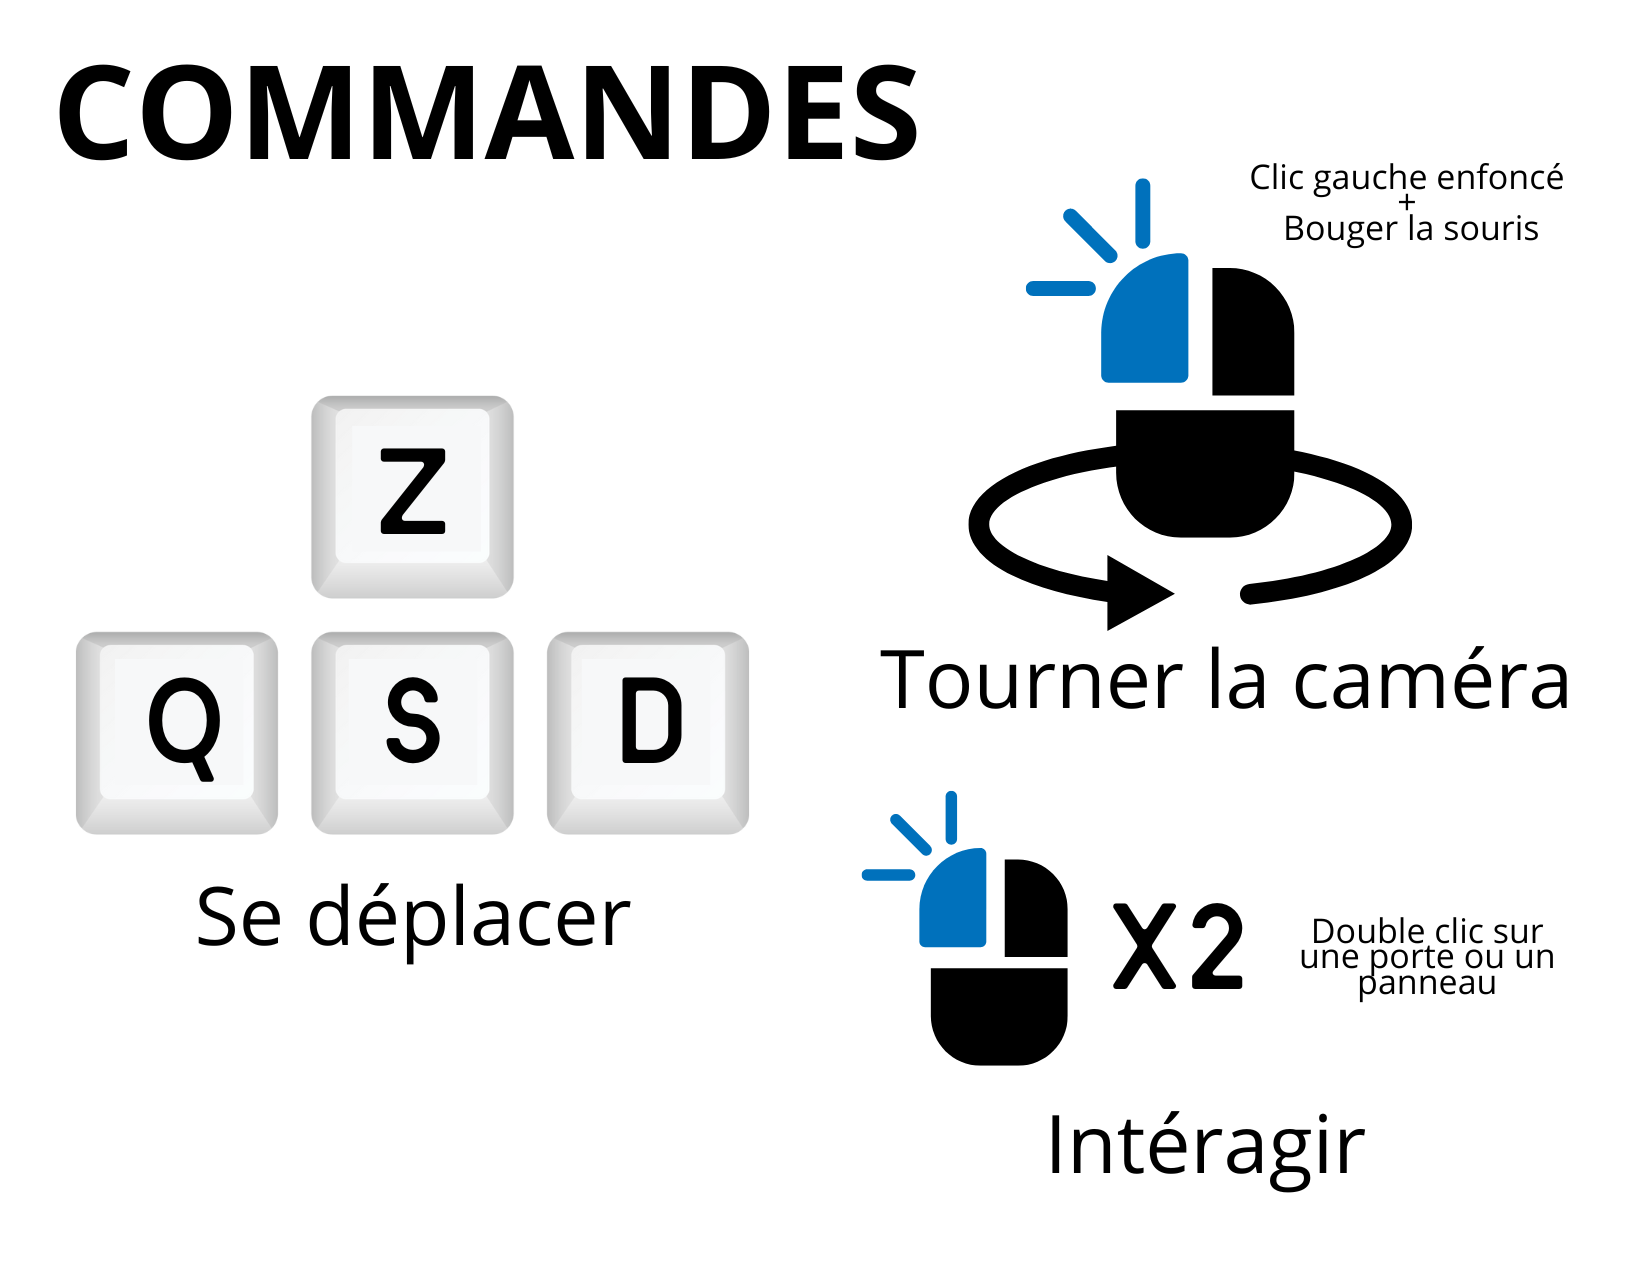
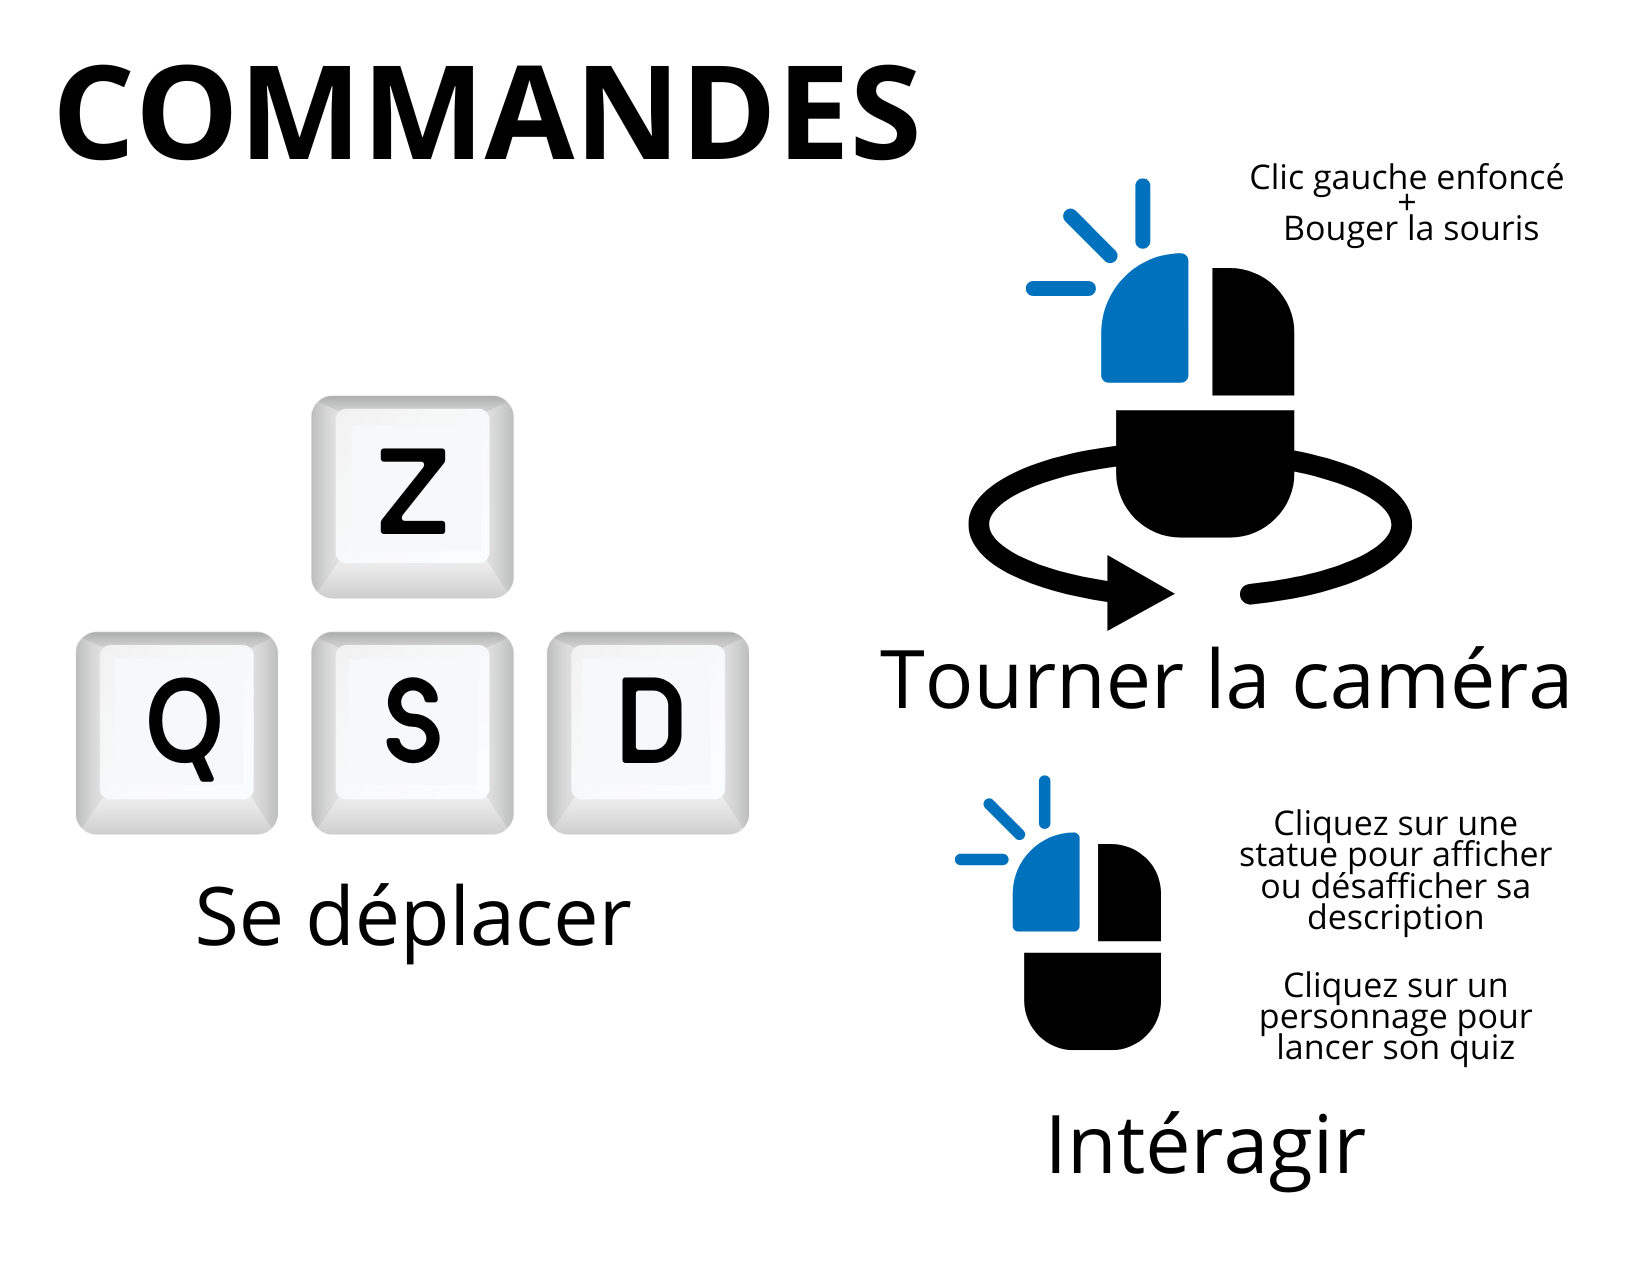
V2.2

Changed region(s): [[0.5255, 0.6118, 0.9582, 0.8565]]

diff --git a/musee.html b/musee.html
@@ -110,12 +110,12 @@
     <script>
 
         const desc = new Map();
-        desc.set("argos", "<h1>MERCURY ABOUT TO KILL ARGOS</h1><hr><h3>Bertel Thorvaldsen - 11818</h3><p>Réalisé par Bertel Thorvaldsen, sculpteur Danois en 1818. Cette sculpture représente une scène de la mythologie. Jupiter a eu une liaison avec l'une des prêtresses de sa femme Junon, mais Junon l'a découvert et a puni la prêtresse en la transformant en génisse, qu'elle a laissée garder par un monstre appelé Argus. Jupiter demanda donc à son fils Mercure, le messager volant des dieux reconnaissable à son chapeau ailé, de l'aider à libérer la prêtresse.</p>");
+        desc.set("argos", "<h1>MERCURY ABOUT TO KILL ARGOS</h1><hr><h3>Bertel Thorvaldsen - 1818</h3><p>Réalisé par Bertel Thorvaldsen, sculpteur Danois en 1818. Cette sculpture représente une scène de la mythologie. Jupiter a eu une liaison avec l'une des prêtresses de sa femme Junon, mais Junon l'a découvert et a puni la prêtresse en la transformant en génisse, qu'elle a laissée garder par un monstre appelé Argus. Jupiter demanda donc à son fils Mercure, le messager volant des dieux reconnaissable à son chapeau ailé, de l'aider à libérer la prêtresse.</p>");
         desc.set("diomedes", "<h1>HERCULE ET DIOMEDE</h1><hr><h3>Vincenzo de Rossi - 1570</h3><p>Réalisé en 1570 Vincenzo de' Rossi, sculpteur italien, est l'un des six groupes monumentaux représentant les 12 travaux d'Hercule. Dans la mythologie grecque, Hercule, symbole de force et de courage, entreprend ces travaux pour expier le meurtre de ses enfants dans un accès de folie. Le huitième travail, appelé \"Les juments de Diomède\", est illustré ici. Eurysthée, roi de Mycènes, ordonne à Hercule de capturer les juments de Diomède, des créatures féroces nourries des naufragés par le cruel Diomède, fils du dieu Arès, qui règne en tyran sur les Bistoni en Thrace. Hercule, sans difficulté apparente, capture Diomède et le donne en pâture à ses propres chevaux.</p>");
         desc.set("hercules", "<h1>Hercule et Calliope</h1><hr><h3>Inconnu - Date inconnue</h3><p>C'est une statue baroque d'Hercule et Calliope dans le jardin du palais du Belvédère. Dans la mythologie grecque et romaine, Hercule est un héros qui reçut les honneurs divins et fut accepté dans l'Olympe. Il était le fils de Zeus et d'Alkmène. Calliope est l'une des neuf filles de Zeus et de Mnémosyne. Elle est la muse de la poésie, de la science et de la philosophie. Elle est la plus ancienne et la plus sage des neuf muses classiques et fut donc la juge dans le différend entre Aphrodite et Perséphone au sujet d'Adonis</p>");
         desc.set("herakles", "<h1>HERACLES ARCHER</h1><hr><h3>Antoine Bourdelle - 1909</h3><p>Réalisée en 1909 par Antoine Bourdelle, \"Héraclès archer\" aussi appelé \"Héraclès tue les oiseaux du lac Stymphale\" est l'une de ses sculptures les plus célèbres. Il est un sculpteur français, né le 30 octobre 1861 et mort le 1er octobre 1929. Cette statue a pris comme inspiration l'un des douze travaux d'Héraclès, celui où il doit abattre les oiseaux du lac Stymphale. Cette oeuvre a été commandé par le mécène, amateur d'art et collectionneur Gabriel Thomas(un des promoteurs du musée Grévin). Cette statue a été présentée au salon de la Société nationale des beaux-arts de 1910.</p>");
         desc.set("horse", "<h1>CHEVAL A LA HERSE</h1><hr><h3>Pierre Louis Rouillard - 1878</h3><p>Réalisé par Pierre Louis Rouillard, née le 16 janvier 1820 et mort en 2 juin 1881. C'est un sculpteur qui a comme spécialité la représentation d'animaux. Avec Henri Alfred Jacquemart, Pierre Jules Mène ou Antoine-Louis Barye il fait parti des sculpteur qui ont, dans la deuxième moitié du XIXe siècle , profité de l'engouement nouveau de la bourgeoisie pour les sculptures d'ameublement, particulièrement les sculptures d'animaux. Ici, l'œuvre représente un cheval et a été commandée pour l'Exposition universelle de 1878. Elle faisait partie d'un ensemble de quatre statues monumentales en fonte de fer et dorées à l'origine (avec Éléphant pris au piège et Rhinocéros d' Henri-Alfred Jacquemart ) qui entouraient la fontaine devant le palais du Trocadéro à Paris.</p>");
-        desc.set("lion", "<h1>LE LION</h1><hr><h3>Antoine-Louis Barye - 16832</h3><p>Réalisé par Antoine-Louis Barye, sculpteur francais en 1832, il est représentatif du romantisme , et est l'un des sculpteurs animaliers les plus réputés du xixe siècle. Il espérait que le gouvernement en place pourrait être libéral et à l’écoute de ses citoyens. Il utilisait le bronze plutôt que du marbre et des animaux comme symboles des émotions humaines. Ici, le lion est le symbole de la politique qui écrase le serpent maléfique. Cette oeuvre lui a permis de devenir chevalier de la Légion d’honneur en 1833.</p>");
+        desc.set("lion", "<h1>LE LION</h1><hr><h3>Antoine-Louis Barye - 1832</h3><p>Réalisé par Antoine-Louis Barye, sculpteur francais en 1832, il est représentatif du romantisme , et est l'un des sculpteurs animaliers les plus réputés du xixe siècle. Il espérait que le gouvernement en place pourrait être libéral et à l’écoute de ses citoyens. Il utilisait le bronze plutôt que du marbre et des animaux comme symboles des émotions humaines. Ici, le lion est le symbole de la politique qui écrase le serpent maléfique. Cette oeuvre lui a permis de devenir chevalier de la Légion d’honneur en 1833.</p>");
         desc.set("orsay", "<h1>MERCURE INVENTANT LA CADUCEE</h1><hr><h3>Jean Antoine Idrac - 1878</h3><p> Réalisé par Jean Antoine Idrac en 1878, né à Toulouse le 14 avril 1849 et mort à Paris le 27 décembre 1884, est un sculpteur français. Dans son oeuvre il représente Mercure, le dieu du commerce, des voleurs, des voyages et messager des autres dieux dans la mythologie romaine, assimilé à l'Hermès grec. Le caducée est un des attributs du dieu Mercure (Hermès) dans la mythologie grecque, représenté comme une baguette de laurier ou d'olivier surmonté de deux ailes et entouré de deux serpents entrelacés. Le caducée sert à guérir les morsures de serpents et c'est pourquoi il en est orné.</p>");
         desc.set("pegase", "<h1>MERCURE A CHEVAL SUR PEGASE</h1><hr><h3>Antoine Coysevix - 1698-1702</h3><p>Réalisé par Antoine COYSEVOX sculpteur francais entre 1698 1702. Cette sculpture représente La Renommée et Mercure chevauchant Pégase pour symboliser la Renommée du Roi dans ses aspects pacifiques et guerriers. Mercure guide le cheval de la poésie et foule aux pieds les trophées de la guerre, symbolisant l'abondance et la paix. La Renommée, couronnée de lauriers, annonce les victoires du roi en soufflant dans la trompette de la Vérité, entourée de trophées et d'une cuirasse ornée de la dépouille de lion.</p>");
         desc.set("rhino", "<h1>RHINOCEROS</h1><hr><h3>Henri Alfred Jacquemart - 1878</h3><p>Réalisé par Henri Alfred Jacquemart né le 24 février 1824 et mort le 4 janvier 1896, c'était un sculpteur qui a comme spécialité la représentation d\'animaux. Avec Pierre Louis Rouillard, Pierre Jules Mène ou Antoine-Louis Barye il fait parti des sculpteur qui ont, dans la deuxième moitié du XIXe siècle , profité de l\'engouement nouveau de la bourgeoisie pour les sculptures d\'ameublement, particulièrement les sculptures d'animaux. Cette sculpture, rhinocéros a été commandée pour l\' Exposition universelle de 1878. Elle faisait partie d'un ensemble de quatre statues monumentales en fonte de fer et dorées avec notamment Cheval à la herse de Pierre Louis Rouillard, sculpture d\' Henri-Alfred Jacquemart qui entouraient la fontaine devant le palais du Trocadéro à Paris.</p>");

diff --git a/index.html b/index.html
@@ -31,7 +31,7 @@
                 <!-- Ajout de l'image -->
                 <img src="images/commandes.png" class="img-fluid mx-auto d-block" alt="Commandes du jeu">
                 <!-- Paragraphe d'introduction -->
-                <p class="text-center">Bienvenue dans notre musée virtuel ! Vous êtes sur le point de découvrir des œuvres d'art fascinantes. Chaque statue que vous rencontrerez sera une occasion de tester vos connaissances avec notre quizz. Entrez votre prénom et commencez votre exploration.</p>
+                <p class="text-center">Bienvenue dans notre musée virtuel ! Vous êtes sur le point de découvrir des œuvres d'art fascinantes. Lisez bien la description de chaque statue puis testez vos connaissances avez un quiz en parlant aux personnages présents sur la carte. Essayez d'obtenir le meilleur score aux trois quiz ! Entrez votre prénom et commencez votre exploration.</p>
                 <form>
                     <div class="mb-3">
                         <label for="nom" class="form-label">Votre prénom :</label>

diff --git a/quiz_animaux.html b/quiz_animaux.html
@@ -87,7 +87,7 @@
 
             // Check answers
             var correctAnswers = {
-                question1: '18+19',
+                question1: '1900',
                 question2: 'non',
                 question3: 'faux'
             }
